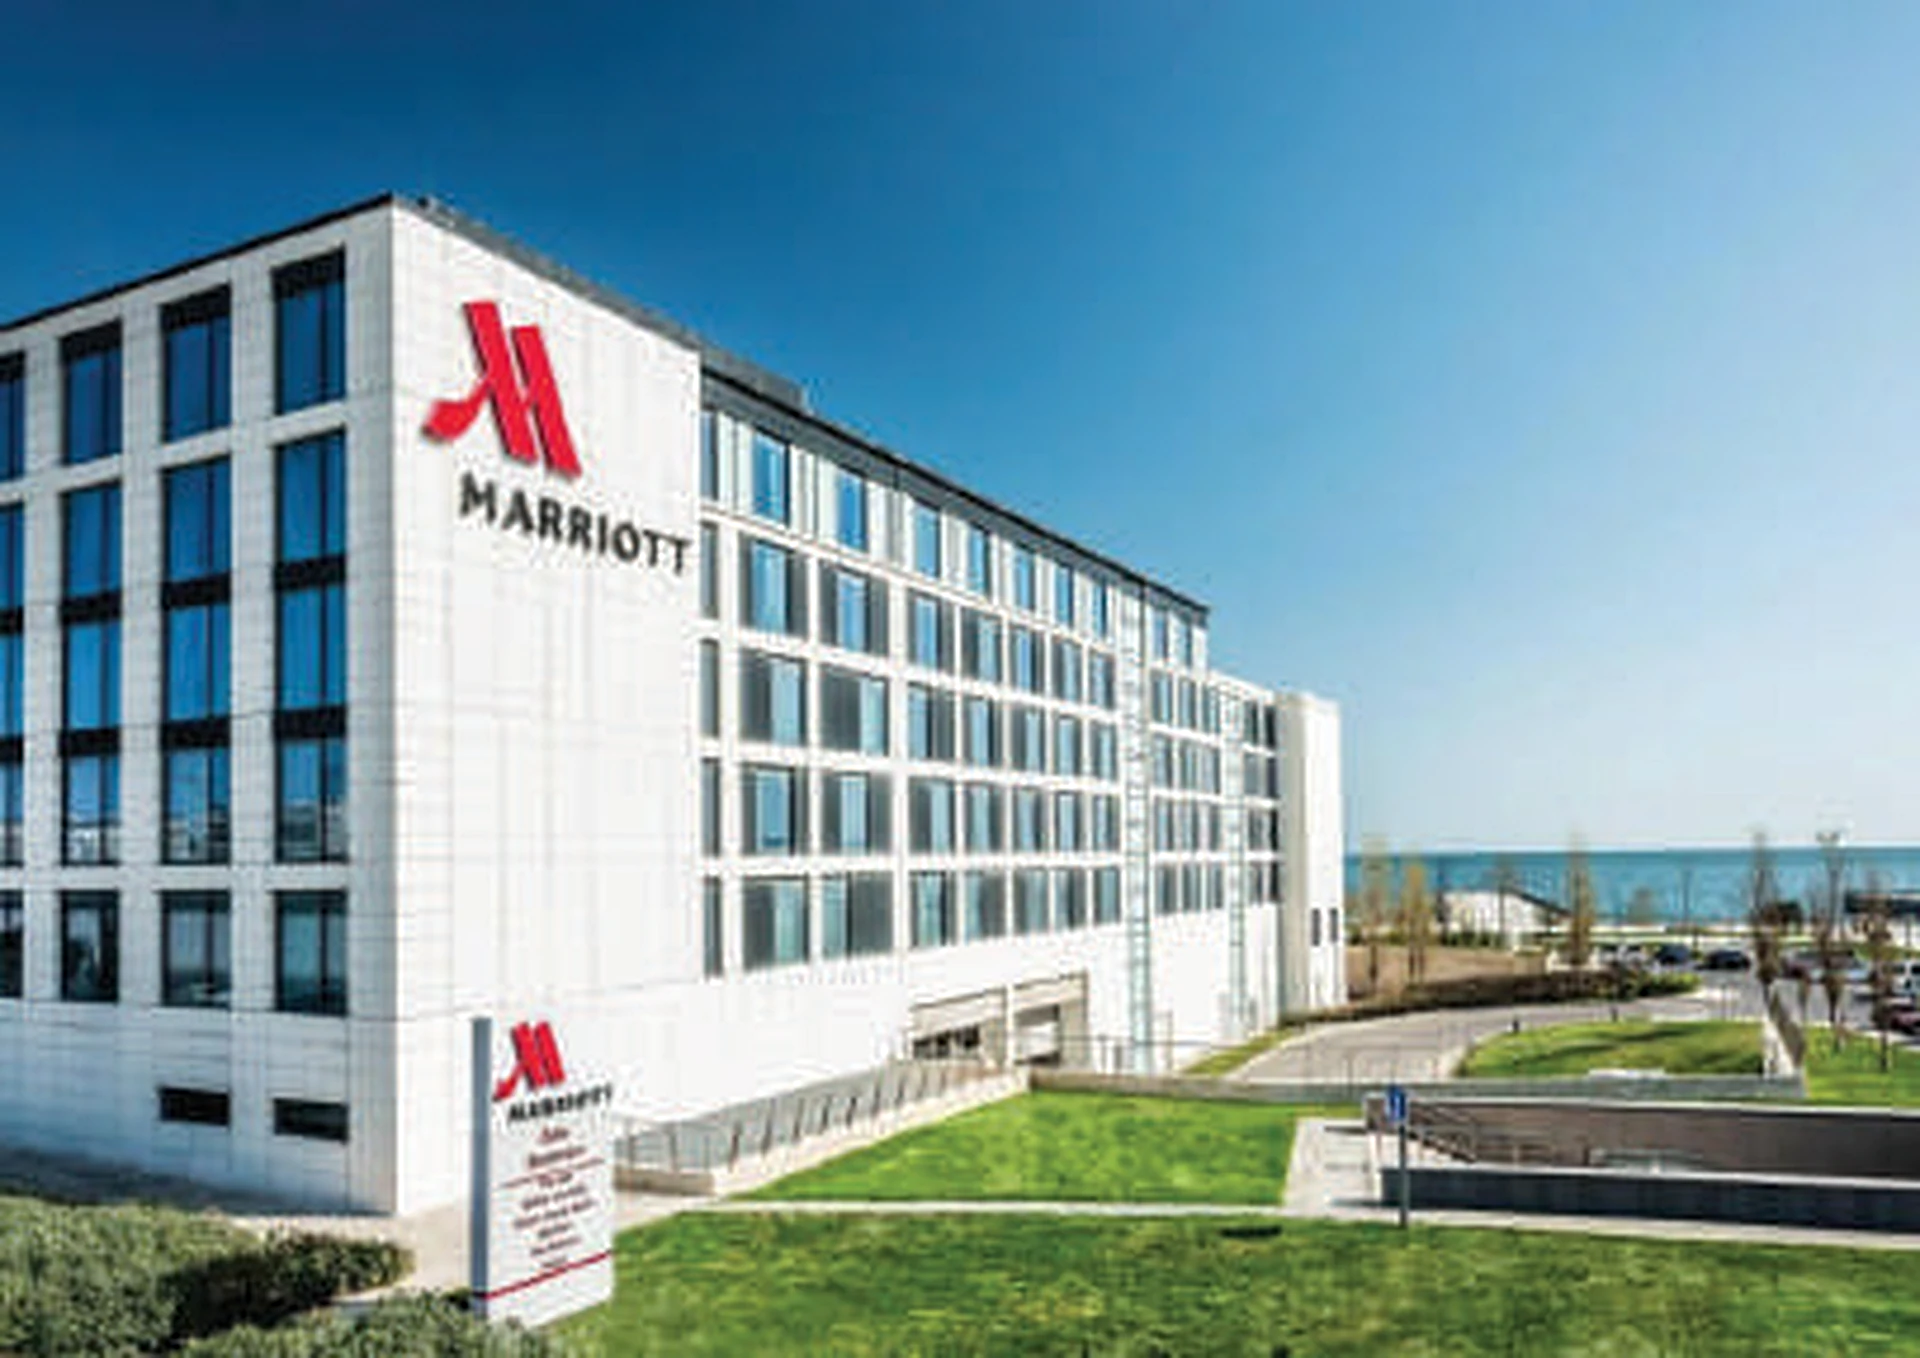
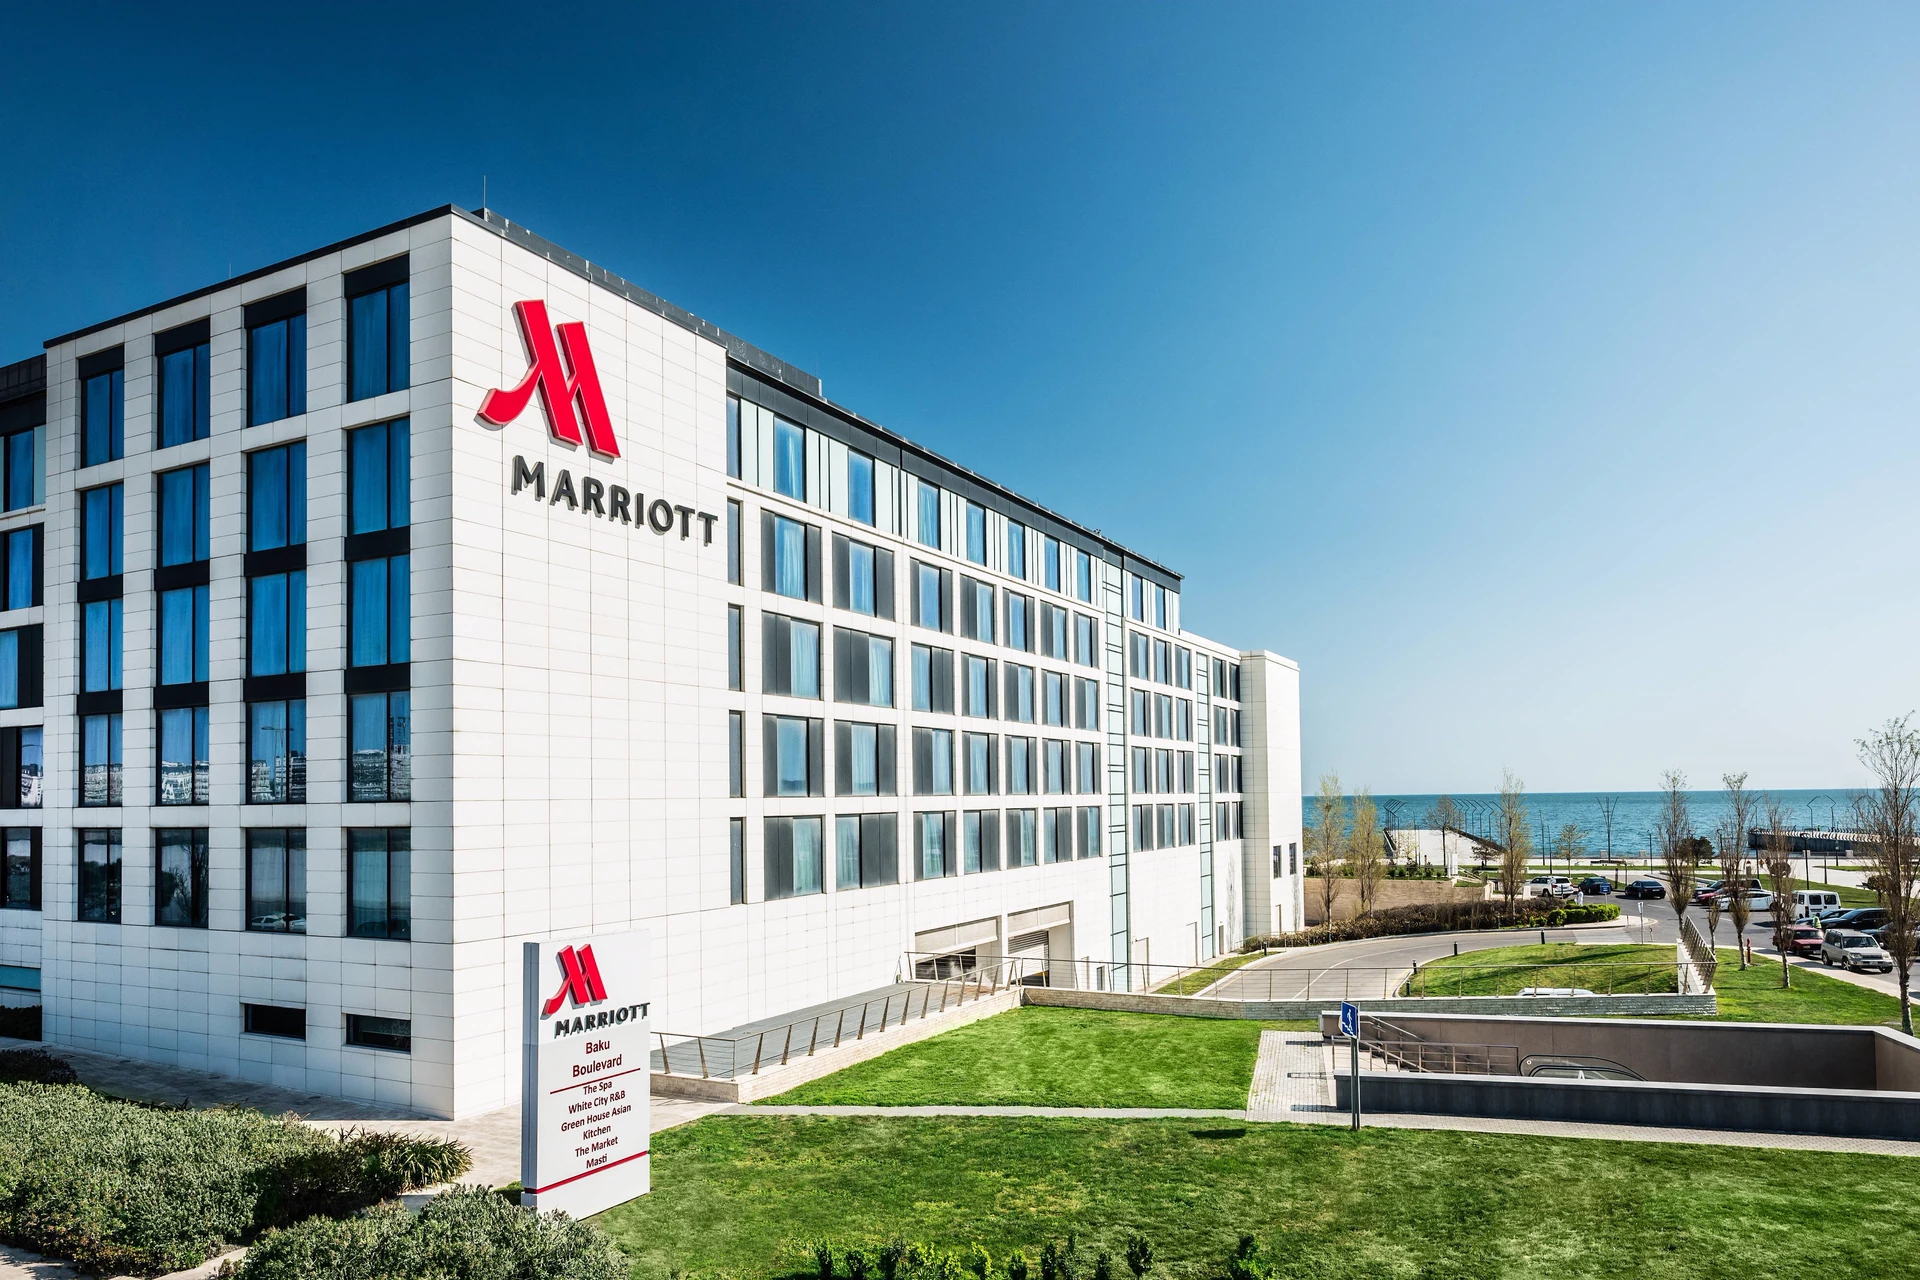
Use original high-resolution Marriott facade photograph

diff --git a/tekstil-studio/index.html b/tekstil-studio/index.html
@@ -46,7 +46,7 @@
       <div class="section-head wrap reveal"><h2 id="home-projects">Layihələrimiz</h2><a class="action" href="layiheler.html">Bütün layihələr <span aria-hidden="true">↗</span></a></div>
       <div class="project-sequence" aria-label="Layihələrdən seçilmiş kadrlar">
         <figure class="project-frame">
-          <img src="media/ana-sehife/marriott-boulevard-960.webp" srcset="media/ana-sehife/marriott-boulevard-960.webp 960w, media/ana-sehife/marriott-boulevard-1920.webp 1920w, media/ana-sehife/marriott-boulevard-3840.webp 3840w" sizes="(max-width: 760px) calc(100vw - 40px), 89vw" width="960" height="678" loading="lazy" decoding="async" alt="Marriott Hotel Boulevard binasının xarici görünüşü">
+          <img src="media/ana-sehife/marriott-boulevard-960.webp?v=2" srcset="media/ana-sehife/marriott-boulevard-960.webp?v=2 960w, media/ana-sehife/marriott-boulevard-1920.webp?v=2 1920w, media/ana-sehife/marriott-boulevard-3840.webp?v=2 3840w" sizes="(max-width: 760px) calc(100vw - 40px), 89vw" width="960" height="640" loading="lazy" decoding="async" alt="Marriott Hotel Boulevard binasının xarici görünüşü">
           <figcaption><span>Marriott Hotel Boulevard</span><span>Bakı · Eksteryer</span></figcaption>
         </figure>
         <figure class="project-frame">

diff --git a/tekstil-studio/README.md b/tekstil-studio/README.md
@@ -4,5 +4,6 @@ Repozitoriyanın kökündə `python -m http.server 8000` əmri ilə önizləmən
 
 - Tam arxivdə 29 layihə və 44 foto var. `media/layiheler/` qovluğundakı veb versiyalar birbaşa təqdimatdakı şəkillərdən hazırlanıb.
 - Layihə kartları `layiheler.html` faylında, məlumat və qalereyalar `layihe-*.html` səhifələrindədir. Ana səhifədə seçilmiş kadrlar ayrıca göstərilir. Konsept təsvirləri işarələnib.
+- Ana səhifədə Marriott fasadının veb variantları təqdimatdakı eyni kadrın 4000 × 2667 piksellik [otel qalereyası nüsxəsindən](https://www.tripadvisor.com/Hotel_Review-g293934-d8281834-Reviews-Baku_Marriott_Hotel_Boulevard-Baku_Absheron_Region.html) hazırlanıb.
 - Tamamlanması üçün real materiallar tələb olunan məqamlar — yüksək ayırdetməli orijinal fotolar, hər layihənin əlavə fotoları, çəkiliş və layihə tarixləri, komanda üzvlərinin portretləri və bioqrafiyaları, arxiv şəkilləri və təsdiqlənmiş tarixçə məlumatları.
 - Əlaqə forması e-poçt proqramında məktub qaralaması açır. Sayt üzərindən birbaşa göndəriş üçün ayrıca xidmət lazımdır. Yerli video yayımlamaq üçün orijinal MP4 faylı əlavə edilməlidir.
